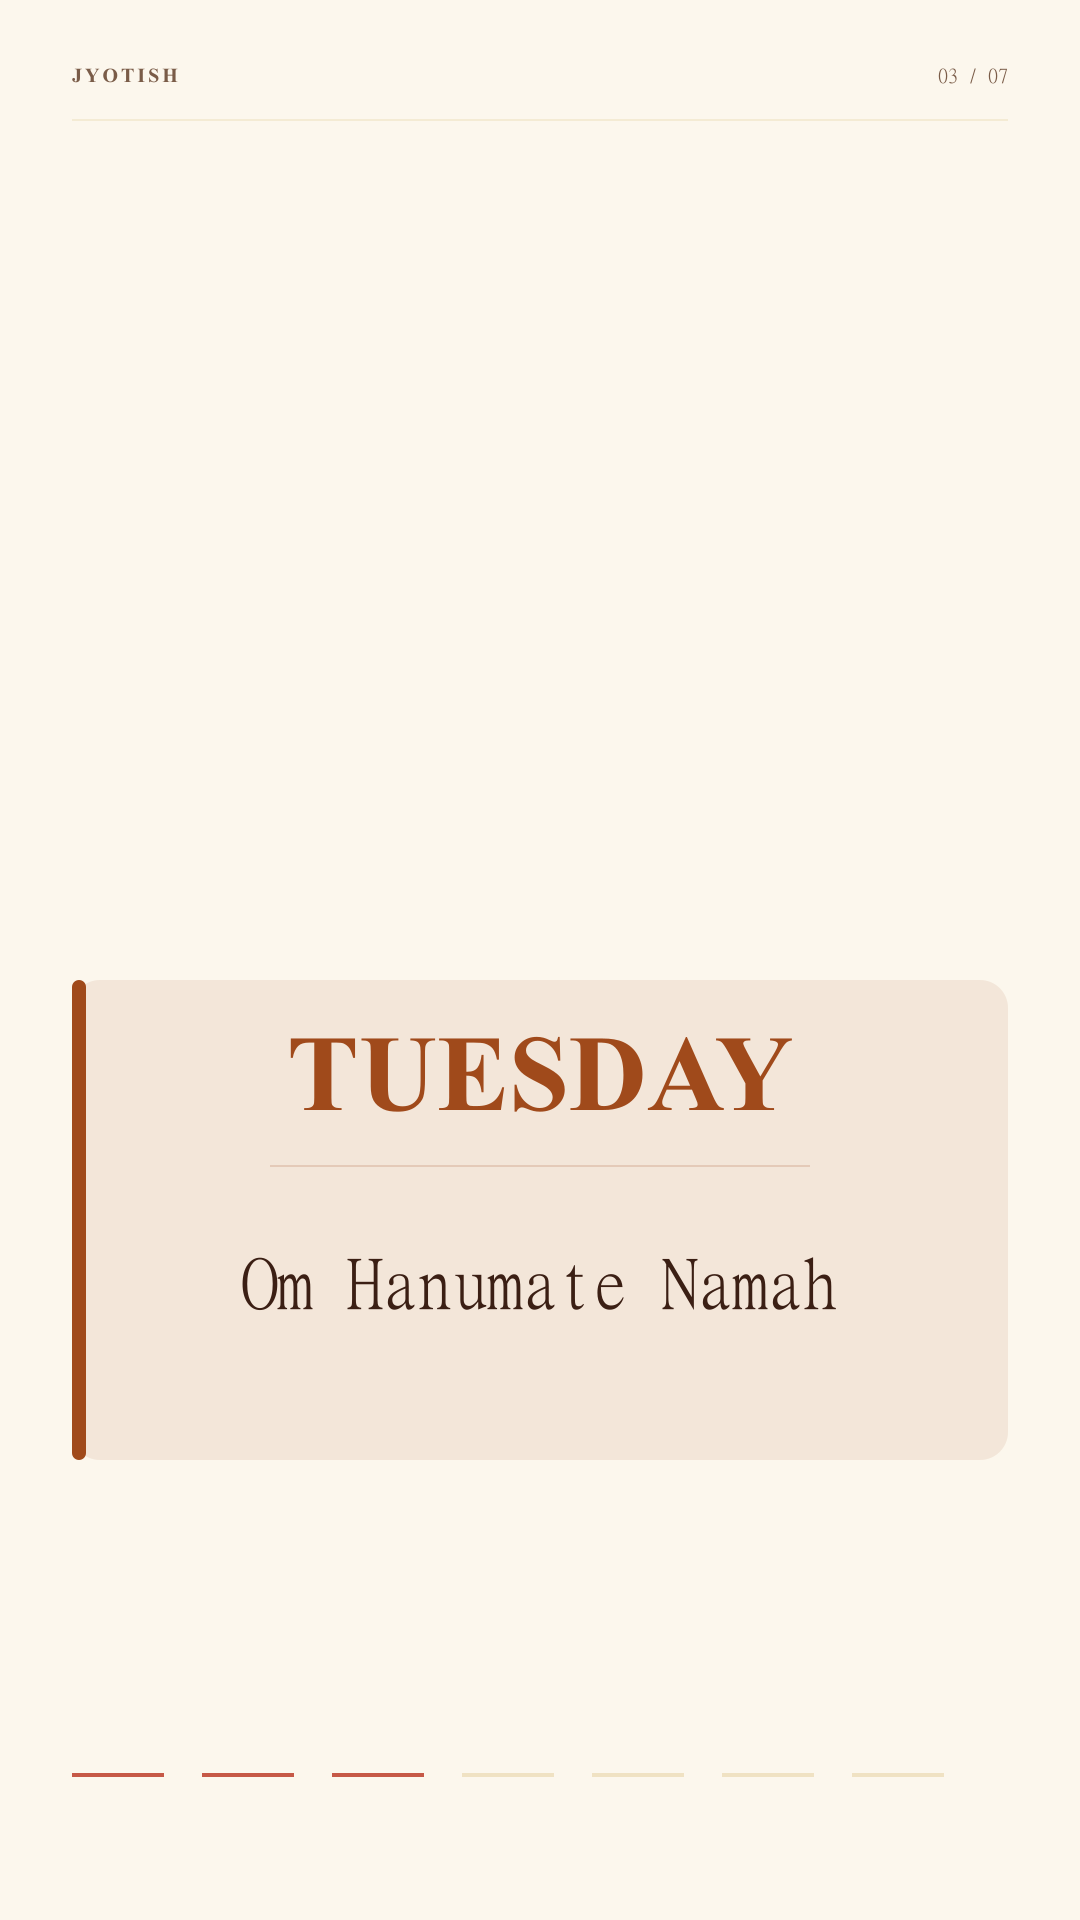
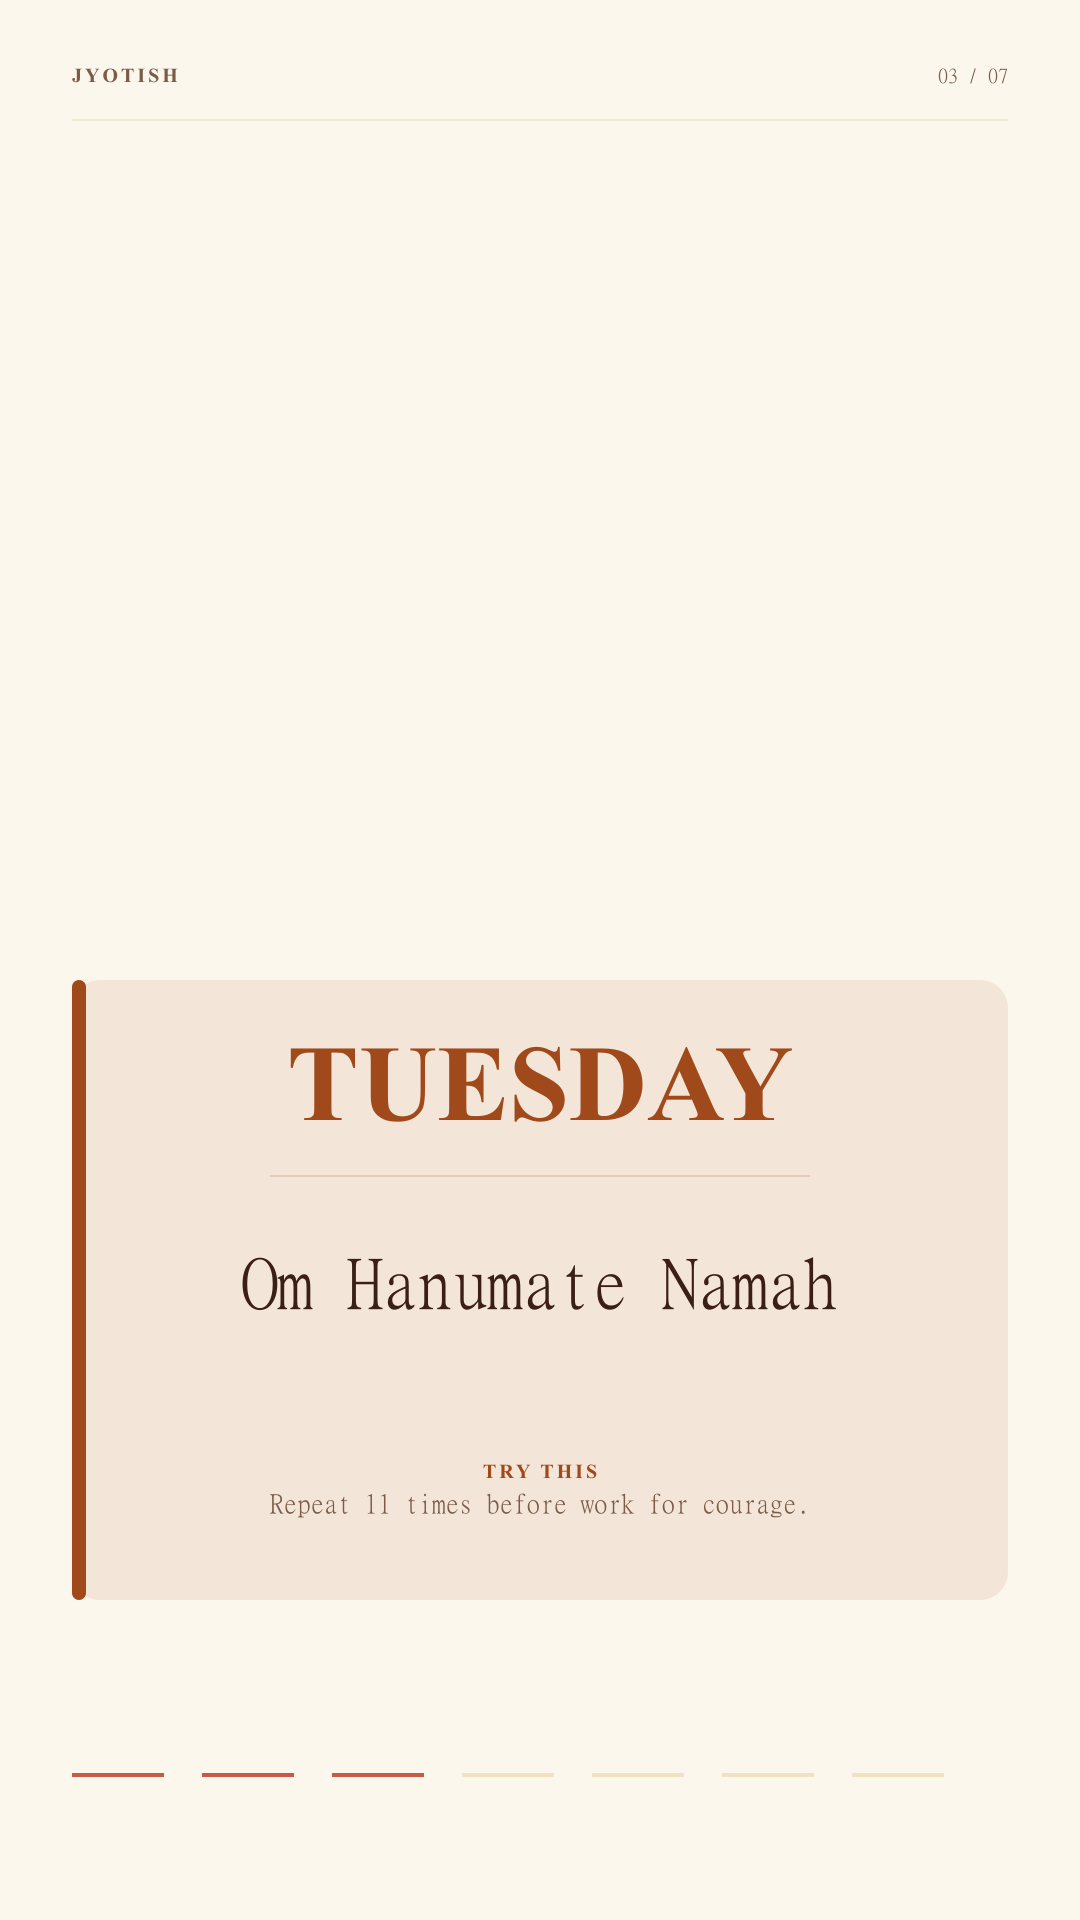
Add mantra instructions and equalize blocks

diff --git a/Instagram/2026-08-01/weekly-mantra/README.md b/Instagram/2026-08-01/weekly-mantra/README.md
@@ -3,6 +3,7 @@
 One shared weekly mantra carousel for Instagram and TikTok, adapted to the current Jyotish visual format.
 
 - 7 slides: title plus Sunday on the first slide, then Monday through Saturday
+- Every day block uses the same size and includes a short “Try this” instruction.
 - Instagram: `exports/02-instagram/01.png` through `07.png`, 1080 x 1350
 - TikTok: `exports/01-tiktok/01.png` through `07.png`, 1080 x 1920
 - The title, day names, and mantras are copied exactly from the supplied image.
